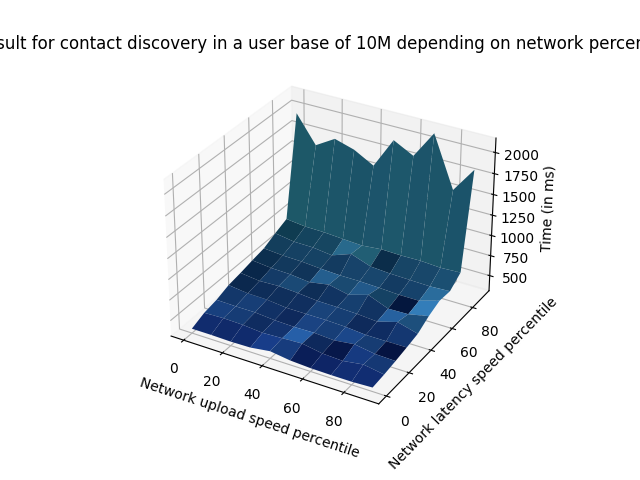
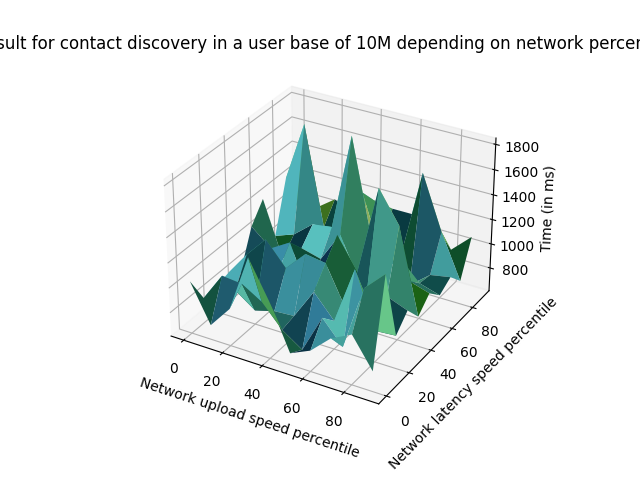
discovered bug in network percentile tester and case tester, fixed tester

Changed region(s): [[0.25, 0.1875, 0.8438, 0.8125]]

diff --git a/calculator.py b/calculator.py
@@ -3,7 +3,7 @@ import math
 import os
 import time
 from random import sample
-
+from dbfread import DBF
 
 
 TRACK_NOT_CONNECTED = "NOT_CONNECTED                "
@@ -47,96 +47,59 @@ class track:
         self.node_to_client_upload_time = node_to_client_upload_time
 
 
-# Time required to search through the uploaded contactbook and compare it to the nodes information
-# Based on our experiment (see xxxx)
-def get_search_time(package_size, amount_of_packages):
 
-    num_list = [10000, 25000, 50000, 100000,
-                250000, 500000, 1000000, 1500000, 2000000, 5000000]
-    closest_number = min(num_list, key=lambda x: abs(x-package_size))
 
-    if closest_number == 10000:
-        search_time_mean = 38.72
-        search_time_spread = 3.45
-    elif closest_number == 25000:
-        search_time_mean = 27.72
-        search_time_spread = 1.50
-    elif closest_number == 50000:
-        search_time_mean = 30.86
-        search_time_spread = 2.91
-    elif closest_number == 100000:
-        search_time_mean = 36
-        search_time_spread = 3.16
-    elif closest_number == 250000:
-        search_time_mean = 61
-        search_time_spread = 17.67
-    elif closest_number == 500000:
-        search_time_mean = 83.29
-        search_time_spread = 4.61
-    elif closest_number == 1000000:
-        search_time_mean = 141.43
-        search_time_spread = 8.14
-    elif closest_number == 1500000:
-        search_time_mean = 207.57
-        search_time_spread = 17.26
-    elif closest_number == 2000000:
-        search_time_mean = 271.57
-        search_time_spread = 15.79
-    elif closest_number == 5000000:
-        search_time_mean = 810.86
-        search_time_spread = 35.33
-    return np.random.normal(search_time_mean, search_time_spread, amount_of_packages)
-
+# Read in data from Ookla-open-data database to create statistics regarding latencies, upload speeds and download speeds
+# Data is from Q1 2020, and is based on the average of 604m*604m areas with 'devices' amount of devices.
+# We sort out latencies and upload speeds that are extremely high (for latencies) and low (for upload speeds) as these should in practise be counted as dead nodes.
+upload_speeds = []
+download_speeds = []
+latencies = []
+latency_minimum = 1
+upload_speed_minimum = 0.1
+for record in DBF('gps_mobile_tiles.dbf'):
+    for i in range(record['devices']):
+        if record['avg_u_kbps'] > 100: #if above 0.1 mbps
+            upload_speeds.append(record['avg_u_kbps']/ 1000)
+        if record['avg_d_kbps'] > 100: #if above 0.1 mbps
+            upload_speeds.append(record['avg_d_kbps']/ 1000)
+        if record['avg_lat_ms'] < 500: #if below 500ms
+            latencies.append(record['avg_lat_ms'])
 
 # Set Values
 # All times are in milliseconds
 database_size = 10000000
 amount_of_nodes = database_size
-amount_of_packages = 10
+amount_of_packages = 34
 package_size = math.floor(database_size/amount_of_packages)
 contact_book_size = 1000
 hash_table_creation_time = 10
 time_to_send_requests = amount_of_packages
-
-
-search_times = get_search_time(package_size, amount_of_packages)
-
-print("Amount of nodes to collect from:", amount_of_packages)
-print("Average package size:", package_size)
-
-# https://www.speedtest.net/global-index
-latency_mean = 37
-latency_spread = 10
-
-# Upload and download averages based on
-# https://www.speedtest.net/global-index
-upload_speed_mean = 13.06
-upload_speed_spread = 4.64
-download_speed_mean = 41.5
-download_speed_spread = 32.68
-
+amount_of_nodes = database_size
+package_size = math.floor(database_size/amount_of_packages)
+time_to_send_requests = amount_of_packages
 
 # Based on a tcp and tls handshake protocol. Six (one-way) exchanges is required before the connection is established and secure
 # https://learning.oreilly.com/library/view/high-performance-browser/9781449344757/ch04.html#TLS_HANDSHAKE
 connection_protocol_multiplier = 3
 
 
-# Normal distribution of latencies
-latencies = np.random.normal(latency_mean, latency_spread, amount_of_packages)
+#Based on our experiment (see xxx)
+hash_table_creation_time = 10
 
-# Normal distribution of latencies on the path when searching for nodes
-path_latencies = np.random.normal(latency_mean, latency_spread, 100000)
+#contact book size is based on the average amount of contacts a person has on their phone
+# according to http://web.mit.edu/bentley/www/papers/phonebook-CHI15.pdf
+contact_book_size = 308
 
+results = []
+# Time required to search through the uploaded contactbook and compare it to the nodes information
+# Based on our experiment (see xxxx)
+search_time_mean = package_size * 0.0009 + 125.666
+search_time_spread = package_size * 0.000009 + 6.1168
+search_times = np.random.normal(
+    search_time_mean, search_time_spread, amount_of_packages)
 
-# Normal distribution of download speed
-download_speed = np.random.normal(
-    download_speed_mean, download_speed_spread, amount_of_packages)
-
-# Normal distribution of upload speed
-upload_speed = np.random.normal(
-    upload_speed_mean, upload_speed_spread, amount_of_packages)
-
-# Normal distribution of path lengths based on
+# Distribution of path lengths based on
 # https://cs.nyu.edu/courses/fall18/CSCI-GA.3033-002/papers/chord-ton.pdf
 path_lengths = np.random.normal(np.log2(
     database_size) / 2, np.log2(database_size) / 6, math.floor(amount_of_packages))
@@ -145,40 +108,42 @@ for i in range(len(path_lengths)):
     if path_lengths[i] < 2:
         path_lengths[i] = 2
 
-print(path_lengths)
 tracks = []
 for track_id in range(amount_of_packages):
     # Takes path length and multiplies with the time it takes to connect to the next node with a TCP protocol.
     # Sending request after a connection been made is neglectable
+    node_latency = sample(latencies, 1)[0]
+    node_upload_speed = sample(upload_speeds, 1)[0]
+
 
     find_node_time = sum(sample(
-        path_latencies.tolist(), math.floor(path_lengths[track_id]))) * connection_protocol_multiplier
+        latencies, math.floor(path_lengths[track_id]))) * connection_protocol_multiplier
 
     search_contacts_time = search_times[track_id]
 
     # Time required to establish a TCP connection to the final node
-    establish_connection_time = latencies[track_id] * \
+    establish_connection_time = node_latency * \
         connection_protocol_multiplier
 
     # Calculate the maximum TCP throughput with standard window size 65536 Bytes = 524288 bits
-    max_TCP_throughput = 0.524288 / (latencies[track_id] / 1000)
+    max_TCP_throughput = 0.524288 / (node_latency / 1000)
 
-    # Upload speed is capped by max_TCP_thprughput if it's higher than upload_speed[track_id]
-    node_upload_speed = upload_speed[track_id] if upload_speed[track_id] < max_TCP_throughput else max_TCP_throughput
+    # Upload speed is capped by max_TCP_thprughput if it's higher than node_upload_speed
+    if node_upload_speed < max_TCP_throughput:
+        node_upload_speed = max_TCP_throughput
 
+    #Calculating upload time
     node_to_client_upload_time = (
         1000 * (contact_book_size * 256) / amount_of_packages) / (node_upload_speed * 1000000)
     client_to_node_upload_time = (
         1000 * (contact_book_size * 256)) / (node_upload_speed * 1000000)
 
-
     # The total estimated time each node require (if assumed it never needs to wait for the client)
     total_time = math.floor(find_node_time + establish_connection_time +
                             node_to_client_upload_time + search_contacts_time + client_to_node_upload_time)
-
     track_status = "NOT_CONNECTED"
     new_track = track(track_id, total_time, track_status, find_node_time, establish_connection_time,
-                      search_contacts_time, client_to_node_upload_time, node_to_client_upload_time)
+                        search_contacts_time, client_to_node_upload_time, node_to_client_upload_time)
     tracks.append(new_track)
 
 ms_count = 0
@@ -278,12 +243,12 @@ while client_status != CLIENT_DONE:
     update_track_status()
 
     #Terminal aesthetic (works for max 80 tracks):
-    os.system('cls' if os.name == 'nt' else 'clear')
-    print("TIME: ", ms_count, "ms", sep='')
-    print("CLIENT         STATUS: ", client_status, "\n", sep='')
-    for track in tracks:
-       print("TRACK #", track.track_id, "       STATUS: ", track.track_status,
-             "              TIME LEFT: ", track.time_left, "ms", sep='')
-    time.sleep(0.01)
+    #os.system('cls' if os.name == 'nt' else 'clear')
+    #print("TIME: ", ms_count, "ms", sep='')
+    #print("CLIENT         STATUS: ", client_status, "\n", sep='')
+    #for track in tracks:
+    #   print("TRACK #", track.track_id, "       STATUS: ", track.track_status,
+    #         "              TIME LEFT: ", track.time_left, "ms", sep='')
+    #time.sleep(0.01)
 
 print("TIME: ", ms_count, "ms", sep='')

diff --git a/network_case_tester.py b/network_case_tester.py
@@ -92,14 +92,6 @@ latencies = []
 latency_minimum = 1
 upload_speed_minimum = 0.1
 
-for record in DBF('gps_mobile_tiles.dbf'):
-    for i in range(record['devices']):
-        if record['avg_u_kbps'] > 100: #if above 0.1 mbps
-            upload_speeds.append(record['avg_u_kbps']/ 1000)
-        if record['avg_d_kbps'] > 100: #if above 0.1 mbps
-            upload_speeds.append(record['avg_d_kbps']/ 1000)
-        if record['avg_lat_ms'] < 500: #if below 500ms
-            latencies.append(record['avg_lat_ms'])
 
 
 for premis in premises:
@@ -127,8 +119,29 @@ for premis in premises:
             search_time_spread = package_size * 0.000009 + 6.1168
             search_times = np.random.normal(
                 search_time_mean, search_time_spread, amount_of_packages)
+                
 
-            # Distribution of path lengths based on
+            # Normal distribution of latencies
+            latencies = np.random.normal(
+                case.latency_mean, case.latency_spread, amount_of_packages)
+
+            for i in range(amount_of_packages):
+                if latencies[i] < latency_minimum:
+                    latencies[i] = latency_minimum
+
+            # Normal distribution of latencies on the path when searching for nodes
+            path_latencies = np.random.normal(
+                case.latency_mean, case.latency_spread, 100000)
+
+            # Normal distribution of upload speed
+            upload_speed = np.random.normal(
+                case.upload_mean, case.upload_spread, amount_of_packages)
+
+            for i in range(amount_of_packages):
+                if upload_speed[i] < upload_speed_minimum:
+                    upload_speed[i] = upload_speed_minimum
+
+            # Normal distribution of path lengths based on
             # https://cs.nyu.edu/courses/fall18/CSCI-GA.3033-002/papers/chord-ton.pdf
             path_lengths = np.random.normal(np.log2(
                 database_size) / 2, np.log2(database_size) / 6, math.floor(amount_of_packages))
@@ -141,27 +154,23 @@ for premis in premises:
             for track_id in range(amount_of_packages):
                 # Takes path length and multiplies with the time it takes to connect to the next node with a TCP protocol.
                 # Sending request after a connection been made is neglectable
-                node_latency = sample(latencies, 1)[0]
-                node_upload_speed = sample(upload_speeds, 1)[0]
-
 
                 find_node_time = sum(sample(
-                    latencies, math.floor(path_lengths[track_id]))) * connection_protocol_multiplier
+                    path_latencies.tolist(), math.floor(path_lengths[track_id]))) * connection_protocol_multiplier
 
                 search_contacts_time = search_times[track_id]
 
                 # Time required to establish a TCP connection to the final node
-                establish_connection_time = node_latency * \
+                establish_connection_time = latencies[track_id] * \
                     connection_protocol_multiplier
 
                 # Calculate the maximum TCP throughput with standard window size 65536 Bytes = 524288 bits
-                max_TCP_throughput = 0.524288 / (node_latency / 1000)
+                max_TCP_throughput = 0.524288 / (latencies[track_id] / 1000)
 
-                # Upload speed is capped by max_TCP_thprughput if it's higher than node_upload_speed
-                if node_upload_speed < max_TCP_throughput:
-                    node_upload_speed = max_TCP_throughput
+                # Upload speed is capped by max_TCP_thprughput if it's higher than upload_speed[track_id]
+                node_upload_speed = upload_speed[track_id] if upload_speed[
+                    track_id] < max_TCP_throughput else max_TCP_throughput
 
-                #Calculating upload time
                 node_to_client_upload_time = (
                     1000 * (contact_book_size * 256) / amount_of_packages) / (node_upload_speed * 1000000)
                 client_to_node_upload_time = (

diff --git a/network_percentile_tester.py b/network_percentile_tester.py
@@ -108,10 +108,10 @@ for i in range(0, len(upload_speeds)-(len(upload_speeds)%10), math.floor(len(upl
 
 
 for l_perc_id in range (len(latencies_percentiles)):
-    latencies = latencies_percentiles[l_perc_id]
+    #latencies = latencies_percentiles[l_perc_id]
 
     for u_spd_id in range (len(upload_speed_percentiles)):
-        upload_speeds = latencies_percentiles[u_spd_id]
+        #upload_speeds = upload_speed_percentiles[u_spd_id]
 
         amount_of_nodes = database_size
         package_size = math.floor(database_size/amount_of_packages)
@@ -146,10 +146,6 @@ for l_perc_id in range (len(latencies_percentiles)):
 
         results = []
         for i in range(i_tot):
-
-           
-           
-
             tracks = []
             for track_id in range(amount_of_packages):
                 # Takes path length and multiplies with the time it takes to connect to the next node with a TCP protocol.
@@ -253,7 +249,7 @@ for l_perc_id in range (len(latencies_percentiles)):
                         if track.time_left < track.total_time - track.find_node_time:
                             track.track_status = TRACK_ESTABLISHING_CONNECTION
 
-                # Connect client to track if both are ready (prioritizes upload to node as it potentionally bottlenecks the system if left waiting)
+                # Connect client to track if both are ready, we are never close to caping download speed so it's free to engage whenever it is ready
                 if client_status == CLIENT_WAITING_FOR_TRANSFER:
                     for track in tracks:
                         if track.track_status == TRACK_WAITING_FOR_TRANSFER_UP:
